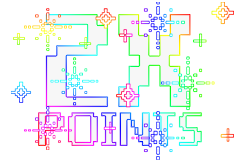
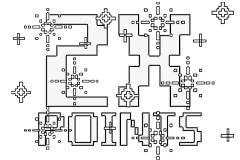
CAMBIO GRAFICA BVY LUCA

diff --git a/src/general/Board.java b/src/general/Board.java
@@ -11,7 +11,7 @@ import java.awt.*;
 import components.*;
 import java.awt.event.*;
 import java.awt.image.BufferedImage;
-import scoreboard.ScoreUserInterface;
+import scoreboard.*;
 import utility.Resources;
 
 /**
@@ -35,13 +35,16 @@ public class Board extends JPanel implements Runnable, ActionListener {
     private Item collidedArrow;
     private Item collidedObstacle;
     private Item collidedMoney;
-    private final BufferedImage explosionImage;
+    private BufferedImage explosionImage;
     private String collidedArrowString;
     private String collidedObstacleString;
     private String collidedMoneyString;
 
     public static int distance = 0;
     public static float distanceForScore;
+    
+    public int lowestScore;
+    private final int thresholdScore = 30;
 
     public static int score = 0;
     public static int coin = 0;
@@ -95,12 +98,19 @@ public class Board extends JPanel implements Runnable, ActionListener {
         background.update();
         ground.update();
         moneys.update();
-
+        
+        if((lowestScore = Scoreboard.getLowest()) < thresholdScore){
+            lowestScore = thresholdScore;
+        }
+        
+        
         if (HomePage.demo) {
             arrows.update();
         }
 
         obstacles.update();
+        
+        
 
         //bar = new HealthBar();
         animator = new Thread(this);
@@ -115,7 +125,7 @@ public class Board extends JPanel implements Runnable, ActionListener {
         distance += 1;
         distanceForScore += 0.1;
 
-        if (distance == 10) {
+        if (score == lowestScore) {
             color = true;
         }
 
@@ -332,27 +342,27 @@ public class Board extends JPanel implements Runnable, ActionListener {
         color = false;
         colorGame = false;
         changed = false;
-
+        HomePage.demo = false;
+        HealthBar.instance().increase(100);
+        this.explosionImage = Resources.instance().getExplosion();
         TRex.setPower(TRex.getNoPower());       //resetto il gioco, inizializzo a NoPower
-        TRex.setMultiplier(
-                false);
+        TRex.setMultiplier(false);
         score = 0;
         distanceForScore = 0;
         coin = 0;
         distance = 0;
-
-        System.out.println(
-                "reset");
+        Trex.setInstance(null);
+        System.out.println("reset");
         gameOver = false;
-
+        
         startGame();
     }
 
     public void colorGame() {
         color = false;
         gameOver = false;
-        TRex.setPower(TRex.getNoPower());
-        TRex.setMultiplier(false);
+        //TRex.setPower(TRex.getNoPower());
+        //TRex.setMultiplier(false);
         System.out.println("colorGame");
 
         //TREX
@@ -366,10 +376,10 @@ public class Board extends JPanel implements Runnable, ActionListener {
         //TREX
         TRex = Trex.instance();
         //OSTACOLI
-        
+
         if (HomePage.demo) {
             arrows = new Arrows();
-        }        
+        }
         obstacles = new Obstacles(ground);
         //MONETINE
         moneys = new PowerUp();
@@ -380,6 +390,12 @@ public class Board extends JPanel implements Runnable, ActionListener {
         moneys.update();
         obstacles.update();
 
+        explosionImage = Resources.instance().getExplosion();
+
+        int count = HealthBar.instance().getCnt();
+        HealthBar.setInstance(null);
+        HealthBar.instance();
+        HealthBar.instance().setCnt(count);
         running = true;
     }
 
@@ -423,23 +439,23 @@ public class Board extends JPanel implements Runnable, ActionListener {
             TRex.keyReleased(e);
         }
 
-        public void reset() {
-            color = false;
-            colorGame = false;
-            changed = false;
-            HomePage.demo = false;
-            HealthBar.instance().increase(100);
-            Ground.movementSpeed0 = 8;
-            TRex.setPower(TRex.getNoPower());       //resetto il gioco, inizializzo a NoPower
-            TRex.setMultiplier(false);
-            score = 0;
-            distanceForScore = 0;
-            distance = 0;
-            coin = 0;
-            System.out.println("reset");
-            gameOver = false;
-
-            startGame();
-        }
+//        public void reset() {
+//            color = false;
+//            colorGame = false;
+//            changed = false;
+//            HomePage.demo = false;
+//            HealthBar.instance().increase(100);
+//            Ground.movementSpeed0 = 8;
+//            TRex.setPower(TRex.getNoPower());       //resetto il gioco, inizializzo a NoPower
+//            TRex.setMultiplier(false);
+//            score = 0;
+//            distanceForScore = 0;
+//            distance = 0;
+//            coin = 0;
+//            System.out.println("reset");
+//            gameOver = false;
+//
+//            startGame();
+//        }
     }
 }

diff --git a/src/utility/Resources.java b/src/utility/Resources.java
@@ -22,7 +22,6 @@ public class Resources { //singleton
     private int pickedGround;
 
     // IMMAGINI HOMESCREEN
-    private final BufferedImage homepageTitleImage;
     private final BufferedImage homepageBackgroundImage;
     private final BufferedImage homepageFootprintImage;
     // SCOREBOARD
@@ -124,13 +123,15 @@ public class Resources { //singleton
     //HEALTH BAR
     private final BufferedImage healthBar;
     private final BufferedImage healthBarRectangle;
+    private final BufferedImage healthBarCol;
+    private final BufferedImage healthBarRectangleCol;
 
     private Resources() {
 
         //IMMAGINI HOMESCREEN
-        homepageTitleImage = Utility.instance().instance().create(this.getClass().getClassLoader().getResource("image/HomePage/Title small.png"));
         homepageBackgroundImage = Utility.instance().create(this.getClass().getClassLoader().getResource("image/HomePage/sfondoHome.png"));
         homepageFootprintImage = Utility.instance().create(this.getClass().getClassLoader().getResource("image/HomePage/FootprintStart.png"));
+        demoButton = Utility.instance().create(this.getClass().getClassLoader().getResource("image/HomePage/DemoButton.png"));
 
         // SCOREBOARD
         scoreboardBackgroundImage = Utility.instance().create(this.getClass().getClassLoader().getResource("image/scoreboard/scoreScreen1.jpg"));
@@ -209,8 +210,10 @@ public class Resources { //singleton
         pepperCol = Utility.instance().create(this.getClass().getClassLoader().getResource("image/color/pepper.png"));
 
         //HEALTH BAR
-        healthBar = Utility.instance().create(this.getClass().getClassLoader().getResource("image/color/barraDellaVita.png"));
-        healthBarRectangle = Utility.instance().create(this.getClass().getClassLoader().getResource("image/color/taccaVita.png"));
+        healthBar = Utility.instance().create(this.getClass().getClassLoader().getResource("image/bn/barraDellaVita.png"));
+        healthBarRectangle = Utility.instance().create(this.getClass().getClassLoader().getResource("image/bn/taccaVita.png"));
+        healthBarCol = Utility.instance().create(this.getClass().getClassLoader().getResource("image/color/barraDellaVita.png"));
+        healthBarRectangleCol = Utility.instance().create(this.getClass().getClassLoader().getResource("image/color/taccaVita.png"));
 
         // SCORE OSTACOLI BRUCIATI
         score1Col = Utility.instance().create(this.getClass().getClassLoader().getResource("image/color/score1.png"));
@@ -225,7 +228,6 @@ public class Resources { //singleton
         arrowDown = Utility.instance().create(this.getClass().getClassLoader().getResource("image/demo/arrowDOWN.png"));
         arrowUp = Utility.instance().create(this.getClass().getClassLoader().getResource("image/demo/arrowUP.png"));
         arrowRight = Utility.instance().create(this.getClass().getClassLoader().getResource("image/demo/arrowRIGHT.png"));
-        demoButton = Utility.instance().create(this.getClass().getClassLoader().getResource("image/demo/DemoButton.png"));
 
         // PORTAL
         portal = Utility.instance().create(this.getClass().getClassLoader().getResource("image/color/tardis-2.png"));
@@ -240,10 +242,6 @@ public class Resources { //singleton
 
     public static Resources getInstance() {
         return instance;
-    }
-
-    public BufferedImage getHomepageTitleImage() {
-        return homepageTitleImage;
     }
 
     public BufferedImage getHomepageBackgroundImage() {
@@ -541,11 +539,19 @@ public class Resources { //singleton
     }
 
     public BufferedImage getHealthBar() {
-        return healthBar;
+        if (!Board.colorGame) {
+            return healthBar;
+        } else {
+            return healthBarCol;
+        }
     }
 
     public BufferedImage getHealthBarRectangle() {
-        return healthBarRectangle;
+        if (!Board.colorGame) {
+            return healthBarRectangle;
+        } else {
+            return healthBarRectangleCol;
+        }
     }
 
     public BufferedImage getDemoButton() {

diff --git a/src/components/Obstacles.java b/src/components/Obstacles.java
@@ -84,7 +84,7 @@ public class Obstacles extends Items {
         int rd = randomDistance();
         if (color){
             if(tardis)
-                return new Empty(rd,(int) (Ground.yPosition) + (int) (Ground.yPosition * yPercentageCactusOnGround));
+                return new Empty(rd);
             else{
                 tardis = true;
                 return new Portal(rd, (int) (Ground.yPosition) + (int) (Ground.yPosition * yPercentageCactusOnGround));
@@ -92,11 +92,11 @@ public class Obstacles extends Items {
         }
         if (extract <= canyonFrequency) {
             int endCanyon = ground.addCanyon(rd);
-            if (endCanyon == rd) {
-                System.out.println("DOVRESTI METTERLO ALLA FINE");
-                return new Cactus(rd, (int) (Ground.yPosition) + (int) (Ground.yPosition * yPercentageCactusOnGround));
-            }
-            return new Empty(endCanyon, (int) (Ground.yPosition) + (int) (Ground.yPosition * yPercentageCactusOnGround));
+//            if (endCanyon == rd) {
+//                System.out.println("DOVRESTI METTERLO ALLA FINE");
+//                return new Cactus(rd, (int) (Ground.yPosition) + (int) (Ground.yPosition * yPercentageCactusOnGround));
+//            }
+            return new Empty(endCanyon);
         } else {
             if (extract <= canyonFrequency + birdFrequency) {
                 return new Bird(rd, (int) (Ground.yPosition) - (int) (Ground.yPosition * randomBirdHeight()));

diff --git a/src/components/Item.java b/src/components/Item.java
@@ -65,11 +65,11 @@ public abstract class Item {
     public void create(Graphics g) {
         //System.out.println(">>>>>>>>>>>>>>>>>>>>>>>>>>>>>>>>>>>>>>>>>>");
         g.drawImage(image, x, y, null);
-        Graphics2D g2d = (Graphics2D) g;
-
-        g2d.setColor(Color.red);
-        g2d.draw(collider);
-        g2d.setColor(Color.BLACK);
+//        Graphics2D g2d = (Graphics2D) g;
+//
+//        g2d.setColor(Color.red);
+//        g2d.draw(collider);
+//        g2d.setColor(Color.BLACK);
     }
 
     public Area getCollider() {

diff --git a/src/scoreboard/Scoreboard.java b/src/scoreboard/Scoreboard.java
@@ -14,6 +14,7 @@ import java.util.Iterator;
 import java.util.Scanner;
 import java.util.TreeSet;
 
+
 /**
  *
  * @author G8
@@ -93,6 +94,14 @@ public class Scoreboard {
 
         saveOnScoreFile();
     }
+    
+    public static int getLowest(){
+        try {
+            return scoreboard.last().score;
+        } catch(Exception e){
+            return 0;
+        }
+    }
 
     private static class Record implements Comparable<Record> {
 
@@ -115,4 +124,5 @@ public class Scoreboard {
             }
         }
     }
+    
 }

diff --git a/src/trex/Trex.java b/src/trex/Trex.java
@@ -171,10 +171,10 @@ public class Trex extends KeyAdapter implements TrexState, TrexPower {
 
         state.create(g);
 
-        Graphics2D g2d = (Graphics2D) g;
-        g2d.setColor(Color.red);
-        g2d.draw(collider);
-        g2d.setColor(Color.black);
+//        Graphics2D g2d = (Graphics2D) g;
+//        g2d.setColor(Color.red);
+//        g2d.draw(collider);
+//        g2d.setColor(Color.black);
         if (instance.getState() != dead) {
             if (multiplier == true) {
 

diff --git a/src/components/Ground.java b/src/components/Ground.java
@@ -40,10 +40,10 @@ public class Ground {
 
         public void create(Graphics g) {
             g.drawImage(image, x, y, null);
-            Graphics2D g2d = (Graphics2D) g;
-            g2d.setColor(Color.red);
-            g2d.draw(collider);
-            g2d.setColor(Color.BLACK);
+//            Graphics2D g2d = (Graphics2D) g;
+//            g2d.setColor(Color.red);
+//            g2d.draw(collider);
+//            g2d.setColor(Color.BLACK);
         }
 
     }

diff --git a/src/components/Empty.java b/src/components/Empty.java
@@ -17,8 +17,8 @@ public class Empty extends Item {
 
     private final int distanceArrowCanyon = 55;
 
-    public Empty(int x, int y) {
-        super(x, y, Resources.instance().getEmpty());
+    public Empty(int x) {
+        super(x, -1, Resources.instance().getEmpty());
         if (HomePage.demo) {
             Board.arrows.addArrowUp(x - distanceArrowCanyon, (int) (Ground.yPosition));
             

diff --git a/src/general/UserInterface.java b/src/general/UserInterface.java
@@ -26,7 +26,8 @@ public class UserInterface extends JFrame { //Singleton
 
         this.setSize(width, height);
         this.setLocationRelativeTo(null);//in questo modo posiziono il JFrame al centro dello schermo
-        this.setResizable(true);//dimensioni JFrame non modificabili
+        this.setResizable(false);//dimensioni JFrame non modificabili
+        
 
     }
 

diff --git a/src/components/Bird.java b/src/components/Bird.java
@@ -93,12 +93,7 @@ public class Bird extends Item {
                 animation2 = 0;
             }
         }
-        //animation bird
-        //Graphics2D g2d = (Graphics2D) g;
 
-        //g2d.setColor(Color.red);
-        //g2d.draw(collider);
-        //g2d.setColor(Color.BLACK);
     }
 
 }

diff --git a/src/components/HealthBar.java b/src/components/HealthBar.java
@@ -70,5 +70,13 @@ public class HealthBar{ //Singleton
     public static void setInstance(HealthBar instance) {
         HealthBar.instance = instance;
     }
+
+    public int getCnt() {
+        return cnt;
+    }
+
+    public void setCnt(int cnt) {
+        this.cnt = cnt;
+    }
     
 }
